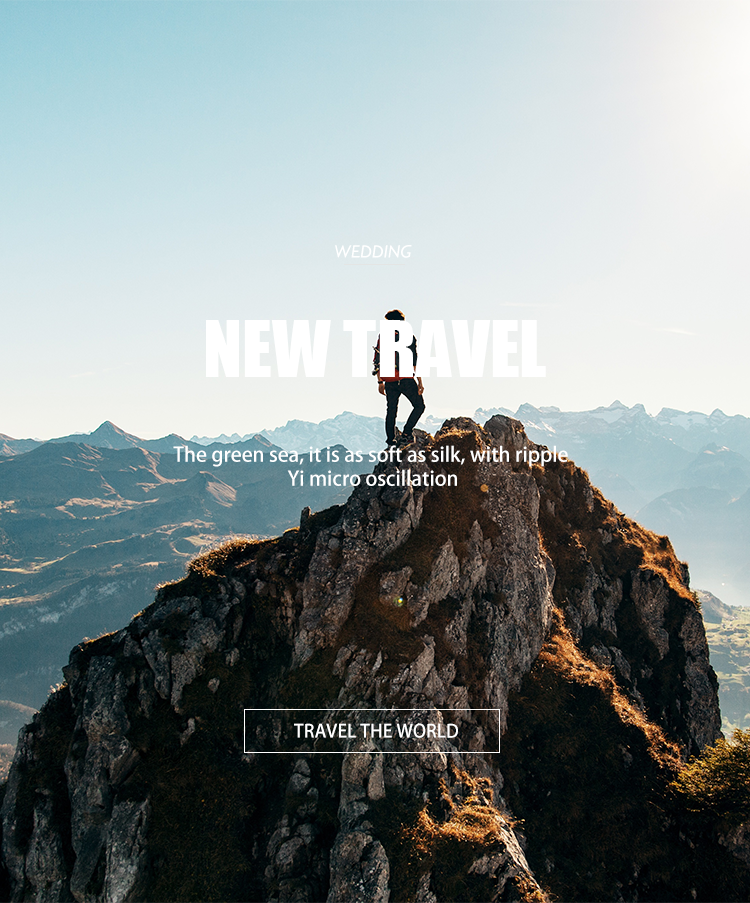
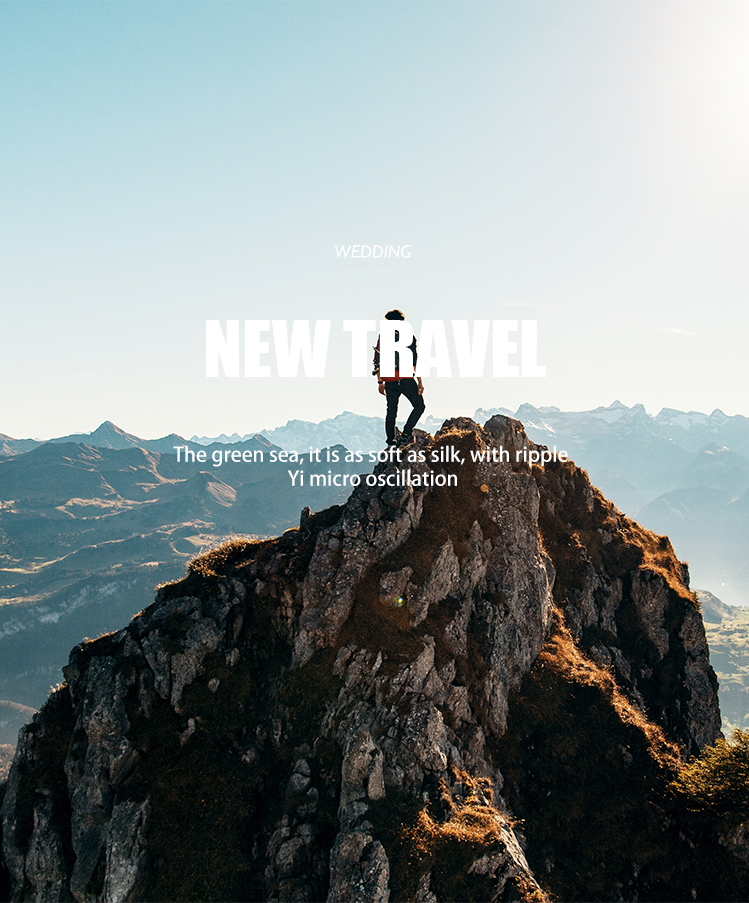
lyx4

diff --git a/css/L-css/L-strategy2.css b/css/L-css/L-strategy2.css
@@ -5,16 +5,12 @@
     background: url(../../img/L-img/2ban.png) center center no-repeat;
     background-origin: padding-box;
     position: relative;
-    z-index: -1;
+    z-index: 0;
   }
-  .banner .col-sm-12 img {
-    width: 60%;
+  .banner .col-sm-12 a.a {
     position: absolute;
-    top: 0px;
-    left: 0;
-    bottom: 0;
-    right: -200px;
-    margin: auto;
+    bottom: 100px;
+    right: 360px;
   }
   .title22, .xsfont {
     display: none;
@@ -101,8 +97,11 @@
     height: 880px;
     background: url(../../img/L-img/2xs_ban.png) center center no-repeat;
   }
-  .banner .col-xs-12 img {
-    display: none;
+  .banner .col-xs-12 a.a {
+    position: absolute;
+    bottom: 100px;
+    left: 50%;
+    margin-left: -140px;
   }
   .main {
     box-shadow: none !important;

diff --git a/html/L-strategy2.html b/html/L-strategy2.html
@@ -78,7 +78,9 @@
 		<div class="container-fluid">
  			<div class="row banner">
 			    <div class="col-sm-12 col-xs-12 ban">
-			    	<img src="../img/L-img/2ban1.png"/>
+			    	<a class="a" href="L-strategy1.html">
+			    		<img src="../img/L-img/ban1.png"/>
+			    	</a>
 			    	<div class="navban col-xs-12">
 			    		<ul>
 			    			<li class="col-xs-4"><a href="">旅游首页</a></li>
